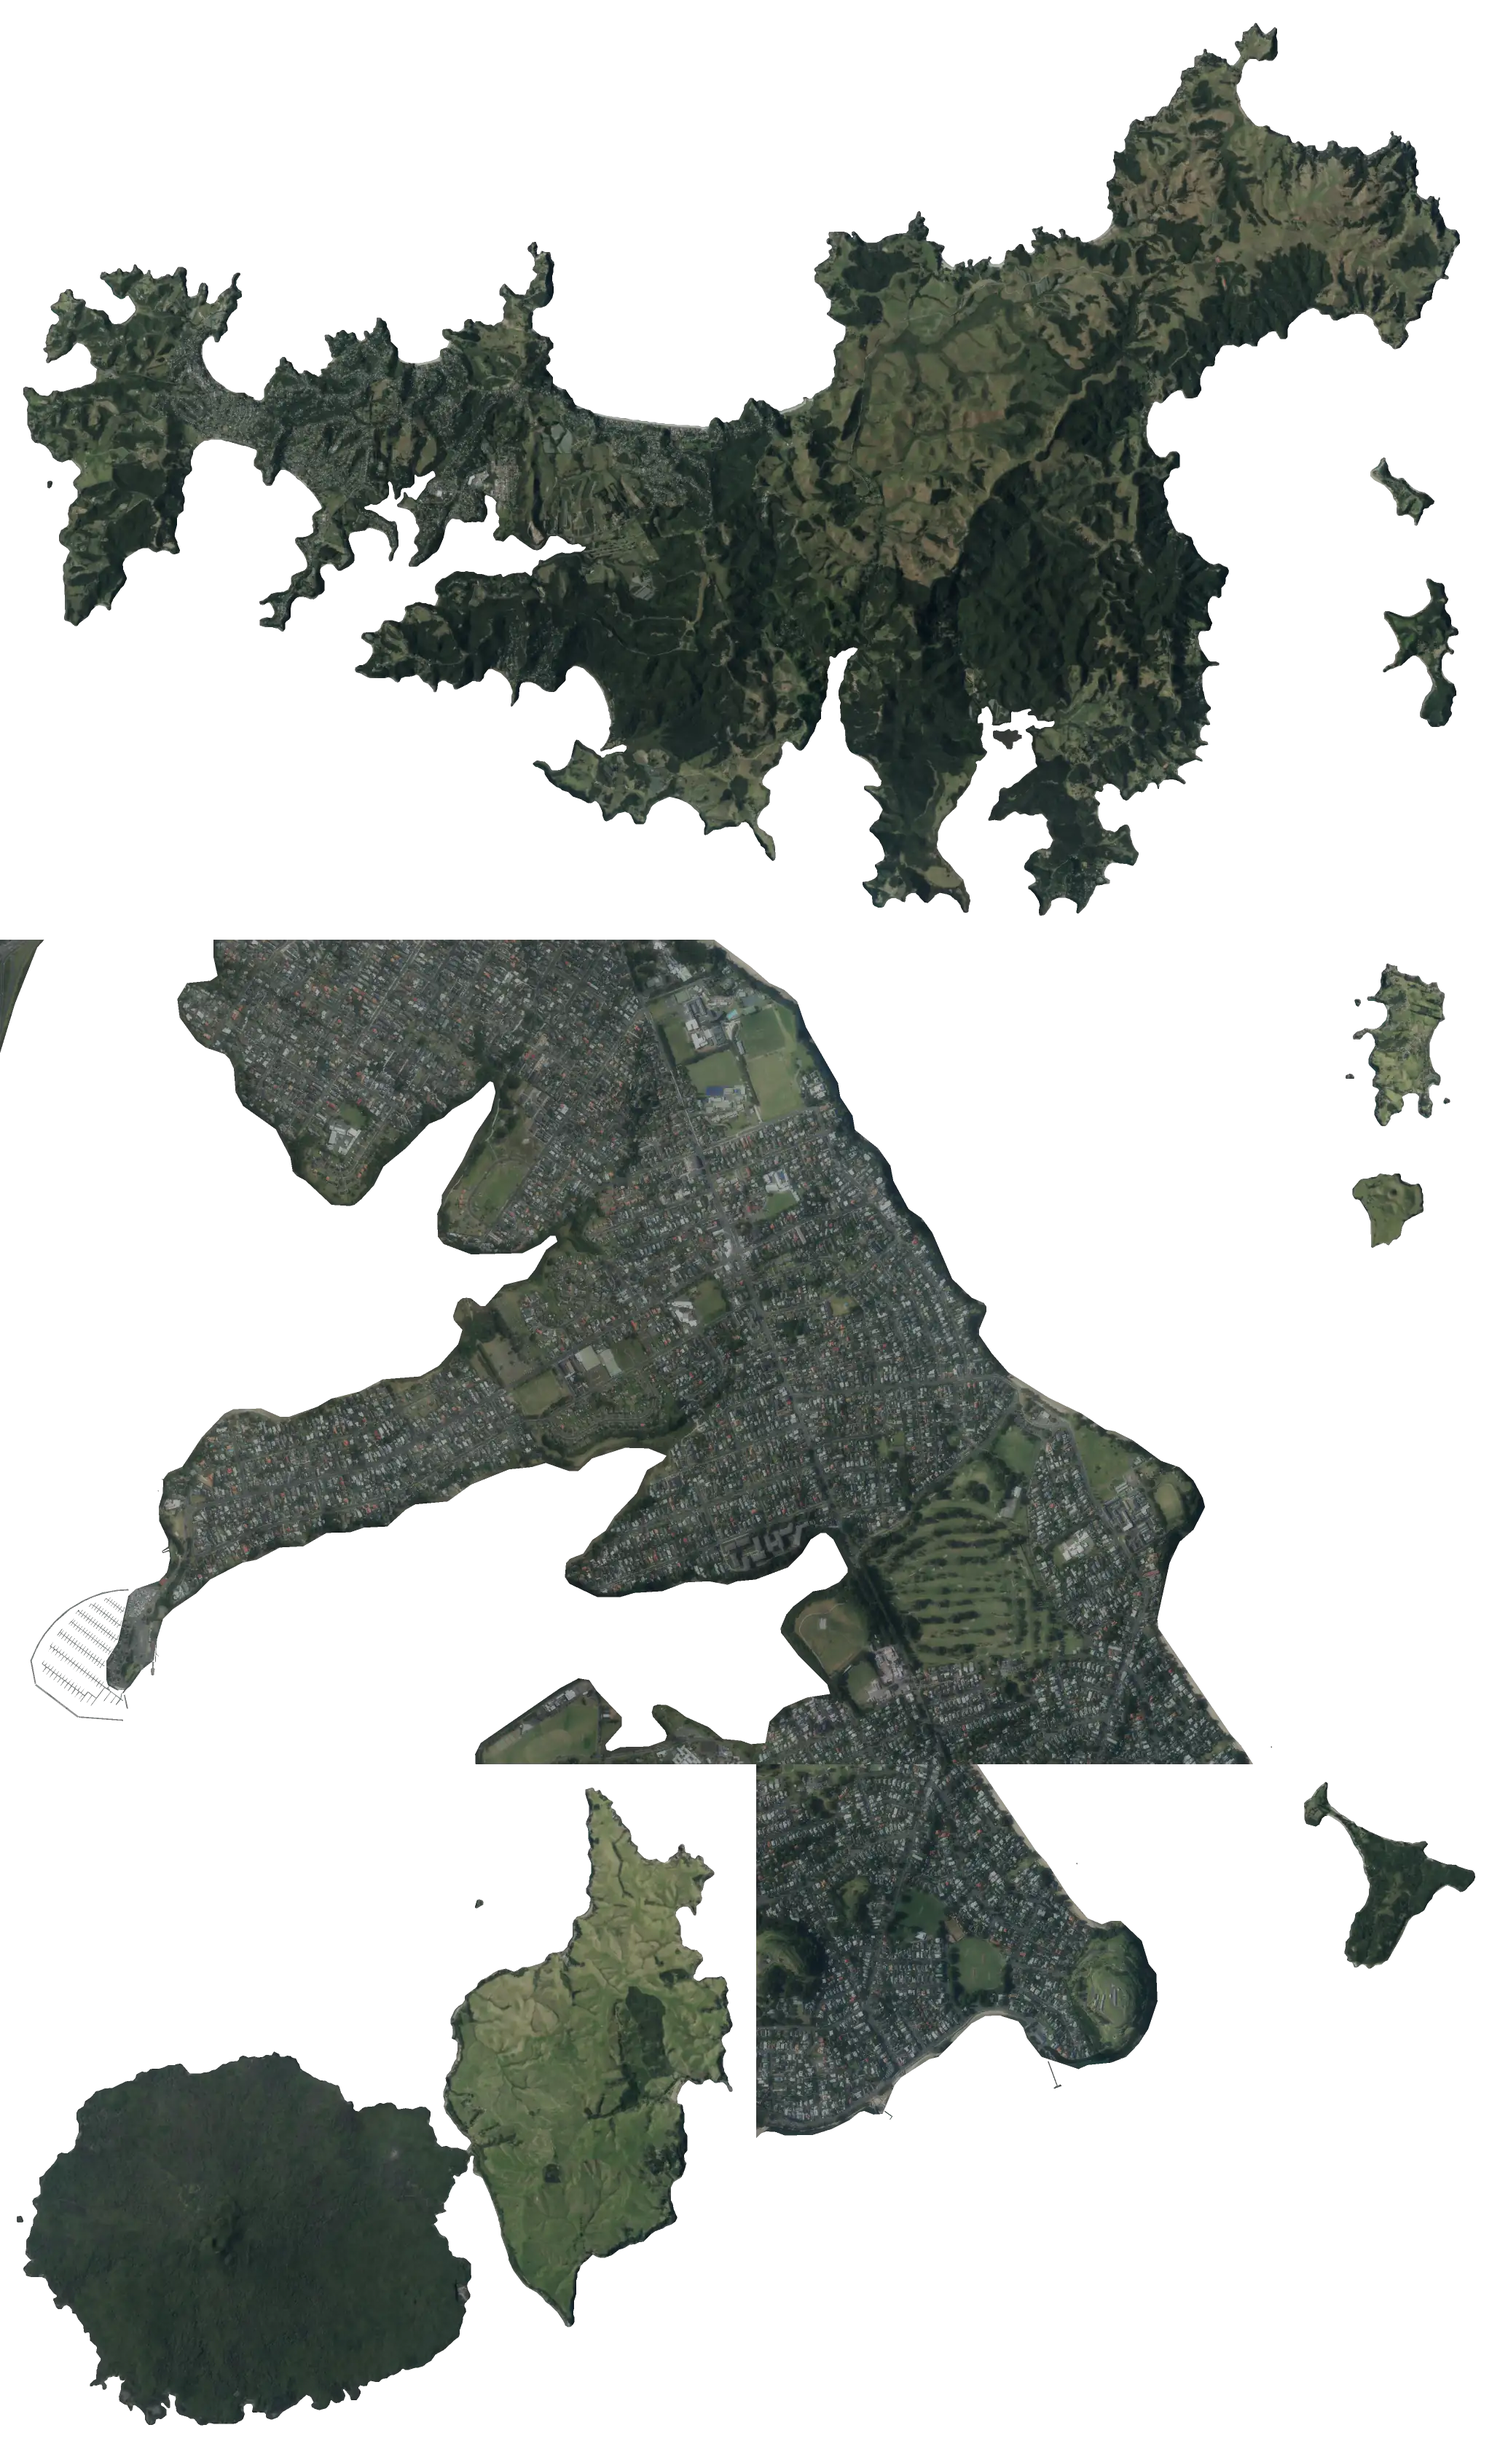
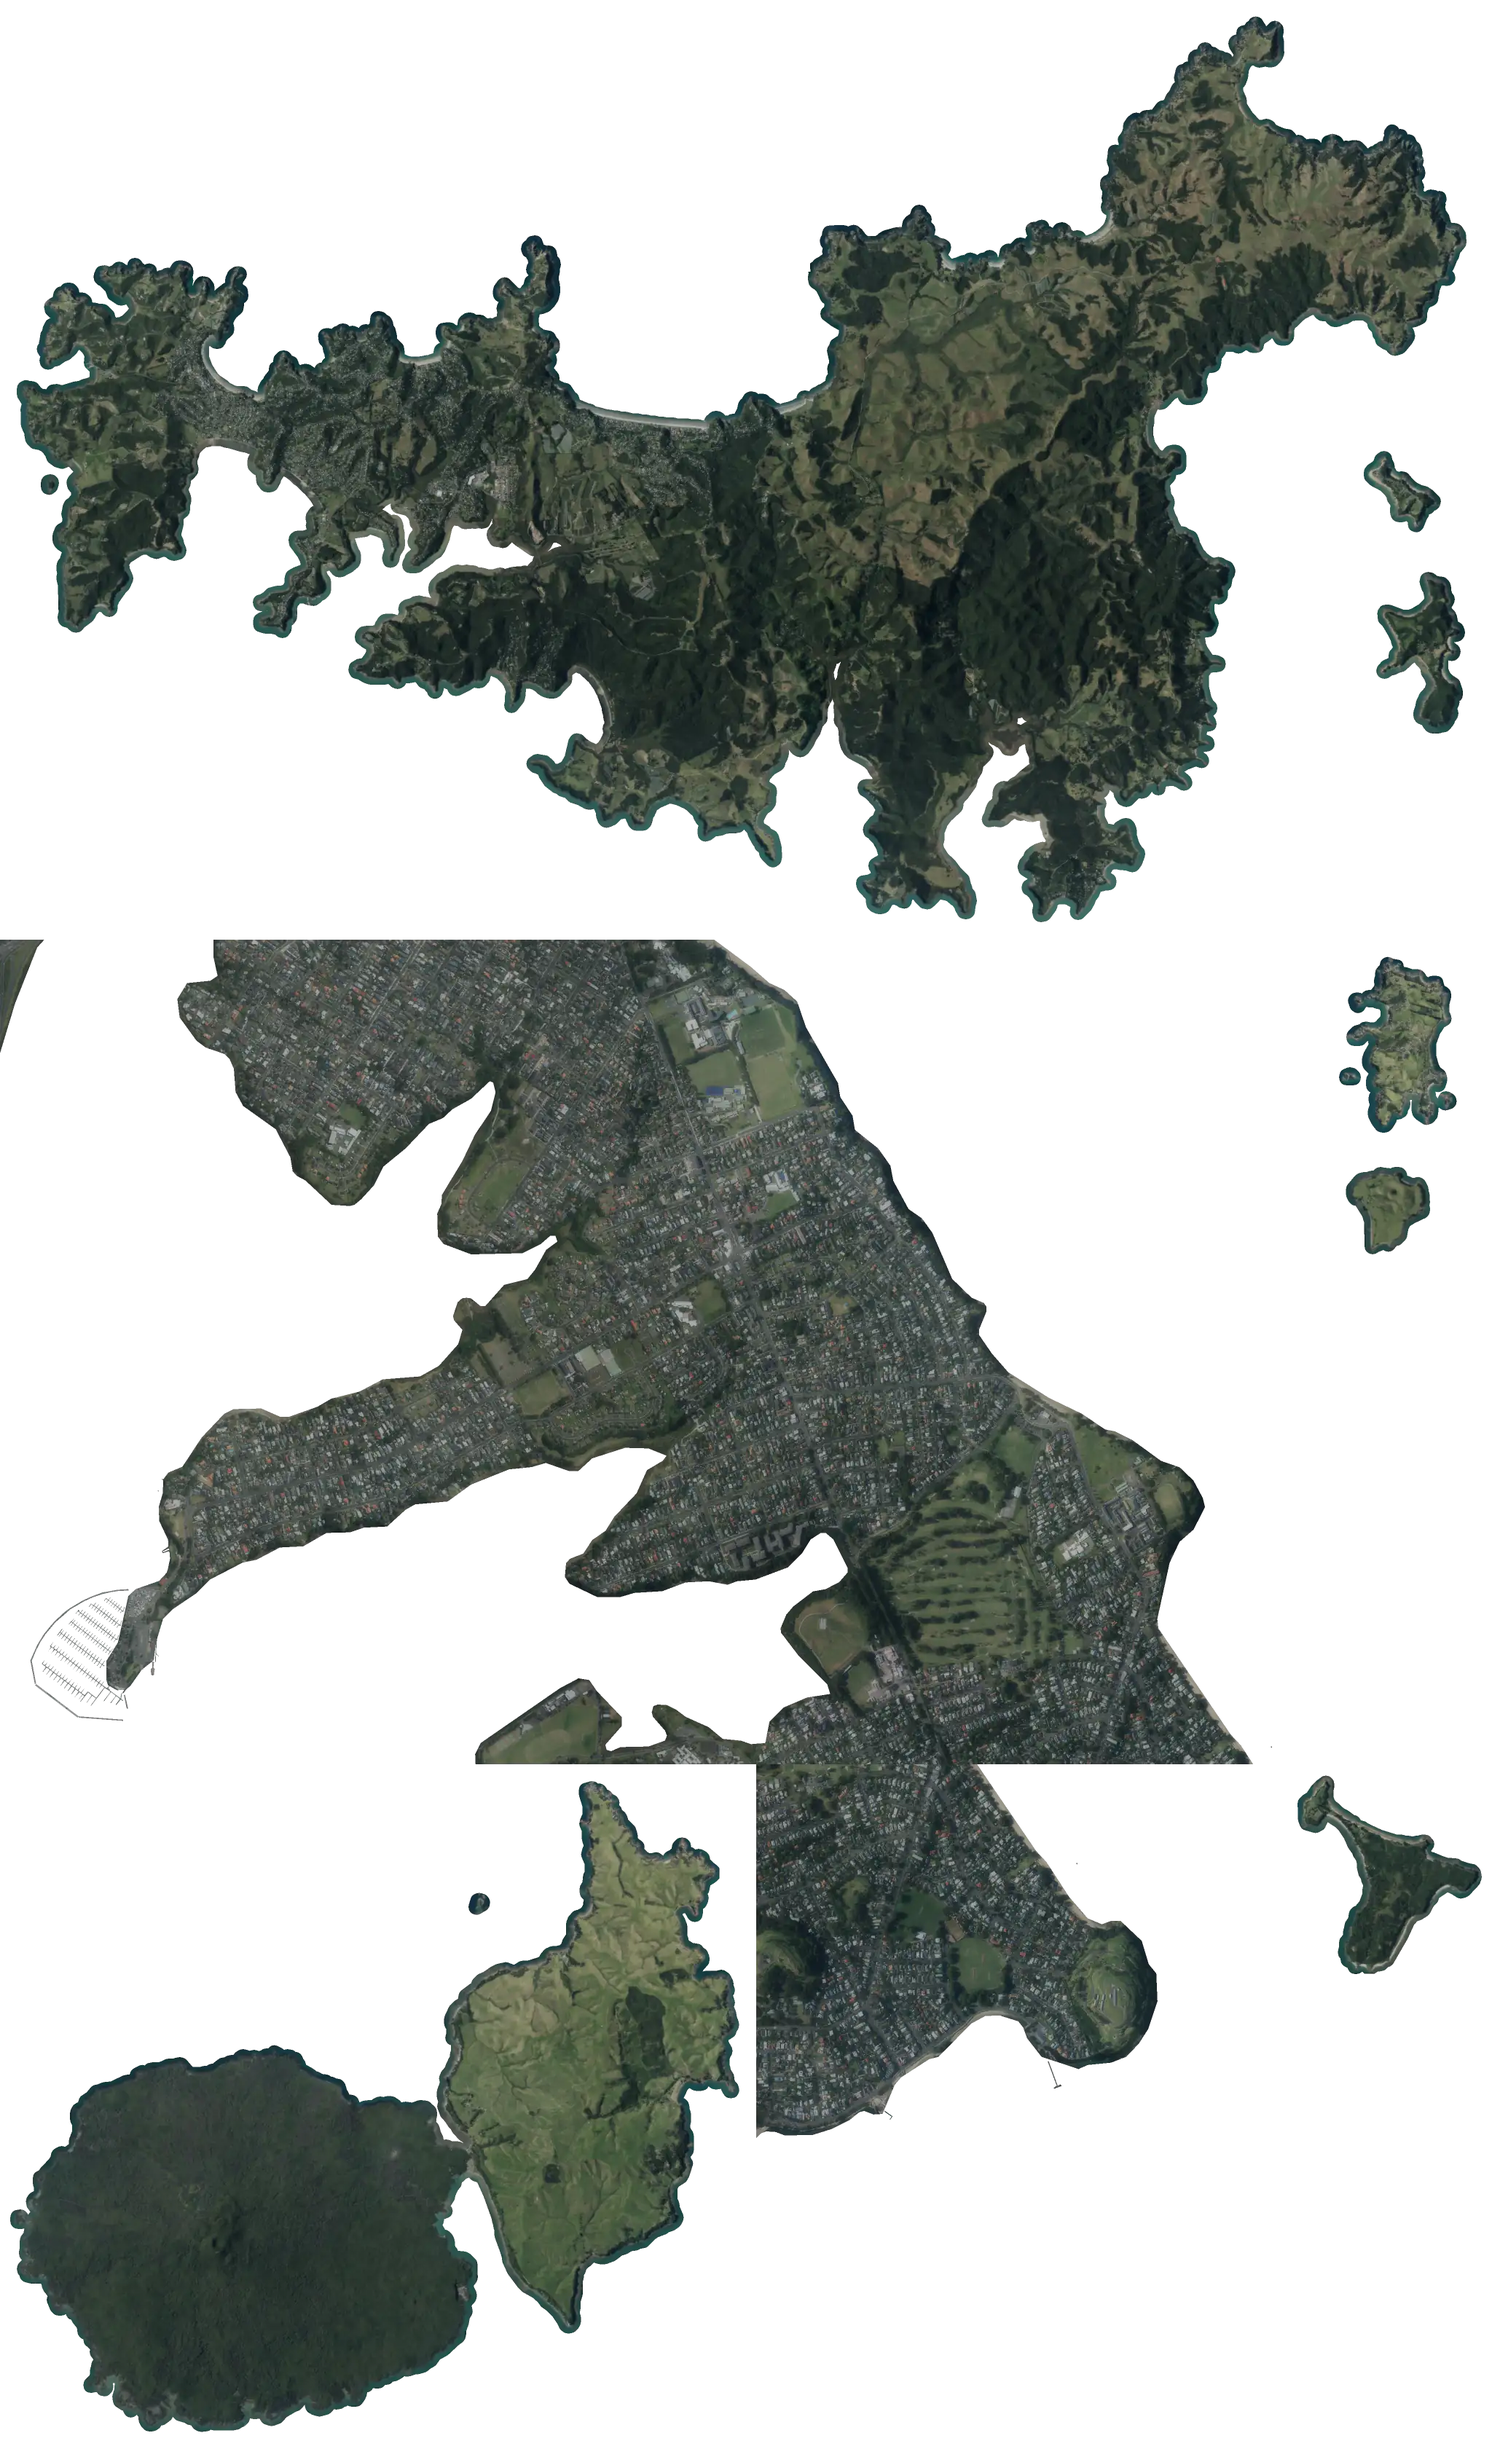
Island photo reaches 90 m out to sea, keeps every islet inside its box (#120)
Beyond the 32 km coast mask the drawn shore is the heightfield's own, and a strip
of procedural grass showed round every bay between it and the LINZ line. Adds the
--variants option and a Putiki Bay view to the shot script.

Claude-Session: https://claude.ai/code/session_015fmsu6FM98k2MAWuPCFhDC

diff --git a/src/core/types.ts b/src/core/types.ts
@@ -278,7 +278,7 @@ export interface QualitySettings {
   hdTerrain: boolean;
   /**
    * Real aerial photo of the CBD and waterfront, plus the rest of the Devonport peninsula and the gulf islands
-   * (Auckland, lazily loaded: ≈ 270 + 260 kB on the medium tier, 630 + 590 kB on high: terrainDetail 1 → 2048²
+   * (Auckland, lazily loaded: ≈ 270 + 280 kB on the medium tier, 630 + 600 kB on high: terrainDetail 1 → 2048²
    * and the 2048-wide outer atlas, 2 → 4096² and the 4096-wide one). Low never downloads it.
    */
   aerialPhoto: boolean;

diff --git a/tests/world-aerial.test.ts b/tests/world-aerial.test.ts
@@ -147,7 +147,7 @@ describe('outer photo atlas (#120)', () => {
     }
     // without the outer photo the square alone is as before
     expect(aerialCovers(AKL.north_head.x, AKL.north_head.z)).toBe(false);
-  });
+  }, 60_000);
 
   it('covers Rangitoto, Motutapu, Rakino, Motuihe, Browns Island and all of Waiheke', () => {
     const places: [string, { x: number; z: number }][] = [

diff --git a/tools/linz/aerial.py b/tools/linz/aerial.py
@@ -48,7 +48,7 @@ import rasterio
 from PIL import Image
 from pyproj import Transformer
 from rasterio.enums import Resampling
-from scipy.ndimage import gaussian_filter, label, map_coordinates
+from scipy.ndimage import binary_dilation, gaussian_filter, label, map_coordinates
 from scipy.signal import fftconvolve
 
 os.environ['GDAL_DISABLE_READDIR_ON_OPEN'] = 'EMPTY_DIR'
@@ -88,6 +88,15 @@ OUTER = [
     dict(name='rakino', x0=15660, z0=-15660, w=1600, h=2560, px=5, ov=32, feather=60, islands=True),
     dict(name='browns', x0=11120, z0=-2580, w=1300, h=1340, px=5, ov=32, feather=60, islands=True),
 ]
+SEA_BAND = 90  # m of the islands' photo past the coastline (the terrain's shore can lie a heightfield cell out)
+
+
+def ndi_dilate(mask, r):
+    """Disc dilation by r pixels (separable box passes are too square for a coast)."""
+    y, x = np.ogrid[-r:r + 1, -r:r + 1]
+    return binary_dilation(mask, structure=(x * x + y * y) <= r * r)
+
+
 APRON = 32  # px of real photo round each atlas box at the high tier (16 at medium)
 ATLAS_W = {4096: 4096, 2048: 2048}
 
@@ -422,6 +431,11 @@ def bake_rect(work, r, k):
         lab, _ = label(landl)
         cut = set(np.unique(np.concatenate([lab[0], lab[-1], lab[:, 0], lab[:, -1]]))) - {0}
         land &= (lab > 0) & ~np.isin(lab, list(cut))
+        # out here (beyond the 32 km coast mask round the city) the drawn shoreline is the terrain's own, up to a
+        # heightfield cell off the LINZ line: the photo (its real shallows and beaches) reaches SEA_BAND m out to sea
+        # too, so terrain standing above the water there is not left a strip of procedural grass (the sea covers the rest)
+        near = ndi_dilate(land, int(np.ceil(SEA_BAND / px))) & (coast_sd < 2) & ~nodata
+        land |= near
     if (land & nodata).any():
         print(f'  {r["name"]}: {int((land & nodata).sum())} land px without photo (left out)', flush=True)
         land &= ~nodata

diff --git a/tools/linz/README.md b/tools/linz/README.md
@@ -282,8 +282,8 @@ database for these tags).
 `aerial-mask.ts` and `aerial.py` bake the LINZ Auckland 0.075 m Urban Aerial Photos (2024–2025) into
 `src/world/terrain/data/auckland-aerial-2048.webp` (≈ 274 KiB, medium tier) and `auckland-aerial-4096.webp`
 (≈ 625 KiB, high tier), loaded by `src/world/terrain/theaters/aucklandAerial.ts`, and (#120) the outer atlas of the rest
-of the Devonport peninsula and the gulf islands, `auckland-aerial-outer-2048.webp` (≈ 257 KiB, medium) and
-`auckland-aerial-outer-4096.webp` (≈ 584 KiB, high) with its layout `auckland-aerial-outer.json`. Same licence and
+of the Devonport peninsula and the gulf islands, `auckland-aerial-outer-2048.webp` (≈ 272 KiB, medium) and
+`auckland-aerial-outer-4096.webp` (≈ 599 KiB, high) with its layout `auckland-aerial-outer.json`. Same licence and
 attribution as above.
 
 | Product | Source | Used for |
@@ -342,8 +342,11 @@ filtering and the first mips never mix in a neighbour:
   Overlapping boxes fade across each other over their feather; the weights add up to ≥ 1 there, so the only fade on
   the peninsula's land is the one across the neck north of Belmont (z −5500 … −5180).
 - **Islands' alpha** = the land wholly inside the box (a land component the box's edge cuts, Ponui's tip inside
-  Waiheke's box, stays procedural); decks are left out there.
-- **Resolution.** Measured per tier before choosing: the whole atlas is 257 KiB on medium and 584 KiB on high (the
+  Waiheke's box, stays procedural); decks are left out there. It also reaches 90 m out to sea (`SEA_BAND`, the
+  photo's real shallows and beaches): the islands lie beyond the 32 km coast mask round the city, where the drawn
+  shoreline is the heightfield's own (86 m cells on medium), and a strip of terrain standing above the water between
+  it and the LINZ line read as bright procedural grass round every bay (the sea covers the rest of the band).
+- **Resolution.** Measured per tier before choosing: the whole atlas is 272 KiB on medium and 599 KiB on high (the
   islands at 5 m and Devonport at 1.25 m are in the high one). At 5 m the high atlas is 4096 × 6724 (147 MB of GPU
   memory with mips); the islands at 5 m on medium would have needed a 4096-wide atlas too (≈ 100 MB on a phone), so the
   medium tier has them at 10 m (2048 × 3362, 37 MB): Rangitoto's lava and bush patches and Waiheke's vineyard blocks
